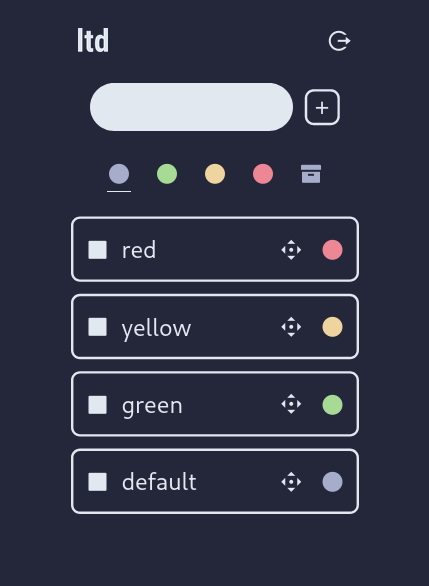
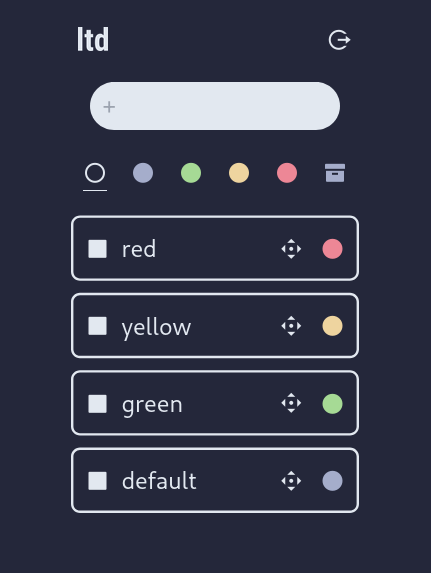
Update README

diff --git a/README.md b/README.md
@@ -7,7 +7,7 @@ Lightweight self-hostable to-do lists app with LDAP authentication.
 ## features
 - Store items as single JSON file.
 - Organize items by color: No tags, no categories. Just colors. Click/tap the dot on the right to change the color of the item. (`default -> green -> yellow -> red -> default`)
-- Sortable. (Only in default color tab though)
+- Sortable. (Only in the top page though)
 - Built-in LDAP authentication. (No multiple user management yet for now)
 
 ## deploy
@@ -21,7 +21,20 @@ LTD_API_TOKEN=SECRET_KEY_TO_POST_ITEM_VIA_API
 ```
 
 2. 
-`touch /path/to/items.json && sudo docker run -d -v /path/to/items.json:/ltd/items.json --env-file /path/to/.env --network="lldap_docker_network" --name ltd -p 8080:8080 kyoheiudev/ltd:0.3.0`
+`touch /path/to/items.json && sudo docker run -d -v /path/to/items.json:/ltd/items.json --env-file /path/to/.env --network="lldap_docker_network" --name ltd -p 8080:8080 kyoheiudev/ltd:0.3.1`
+
+## API
+To post an item via API, use HTTP POST request:
+
+```http
+POST /api/post
+Content-Type: application/json
+Authorization: LTD_API_TOKEN
+
+{
+  "value": "new item"
+}
+```
 
 ## tech stack
 - Svelte as the frontend
